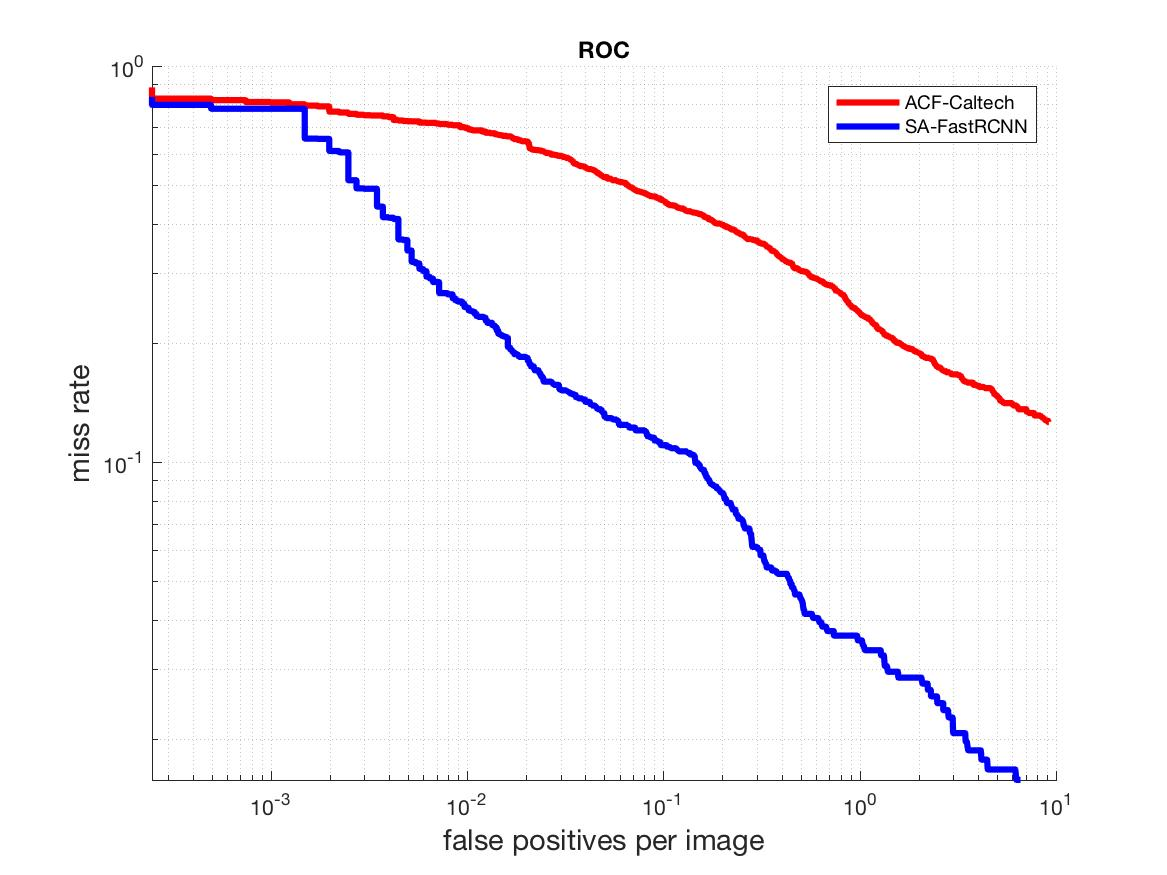
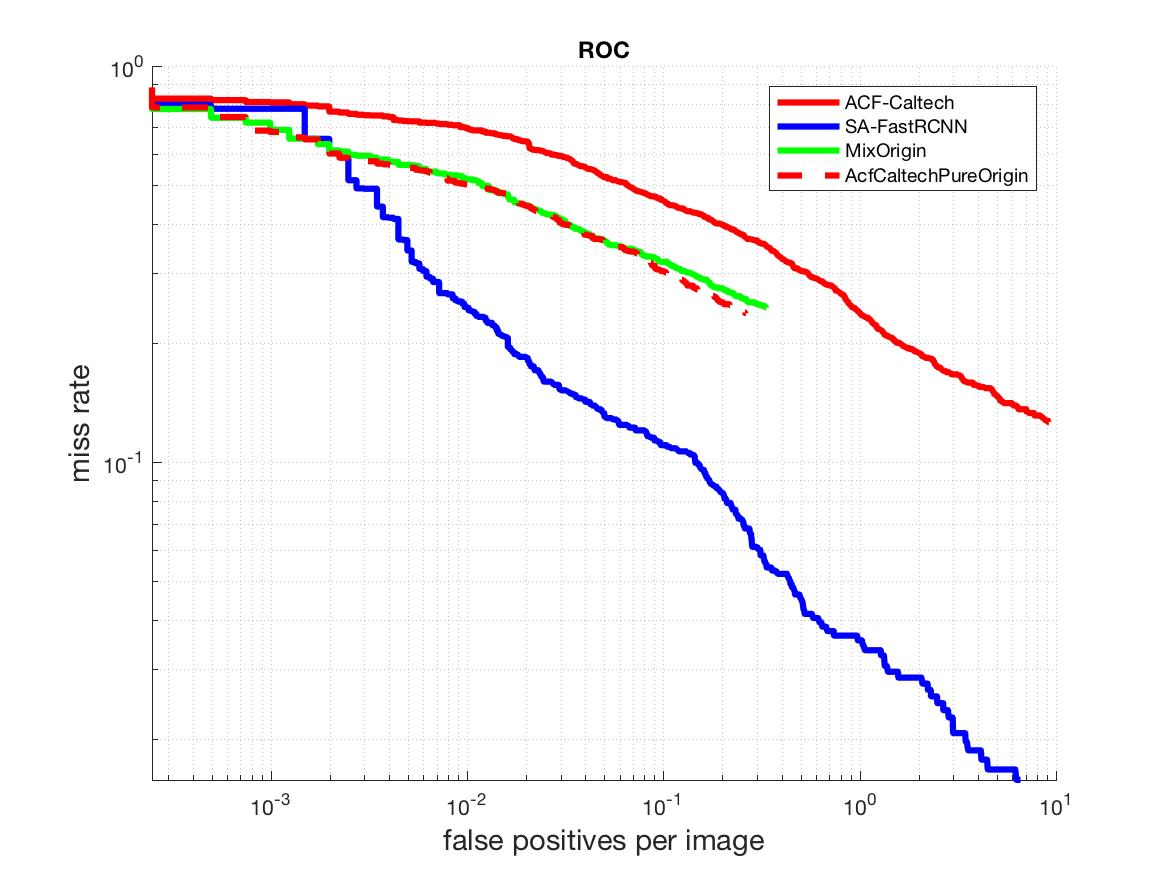
upate

diff --git a/testOnCaltech.m b/testOnCaltech.m
@@ -3,16 +3,17 @@ addpath(p);
 p = genpath('../../DATA/code3.2.1');
 addpath(p);
 clear all;
-
+common = 'AcfCaltechPureOrigin';
[1 lines of base64/hex data omitted]
-saveName = '/Users/shiyuhuang/Downloads/ATOCAR/DATA/Caltech/UsaTest/dt-MixOrigin.mat';
-evasaveName = '/Users/shiyuhuang/Downloads/ATOCAR/DATA/Caltech/UsaTest/ev-MixOrigin.mat';
-stra='MixOrigin'; 
+saveName = ['/Users/shiyuhuang/Downloads/ATOCAR/DATA/Caltech/UsaTest/dt-' common '.mat'];
+evasaveName = ['/Users/shiyuhuang/Downloads/ATOCAR/DATA/Caltech/UsaTest/ev-' common '.mat'];
+stra=common; 
 stre='';
 images = dir(fullfile(imgDir,'*.jpg'));
 len = size(images,1);
 
-load models/MixOriginDetector.mat;
+A = load(['models/' common 'Detector.mat']);
+detector = A.detector;
 dt = cell(1,len);
 aspectRatio = .41;
 for i = 1:len

diff --git a/evaCaltech.m b/evaCaltech.m
@@ -4,11 +4,15 @@ p = genpath('../../DATA/code3.2.1');
 addpath(p);
 clear all;
 
-resDir = '/Users/shiyuhuang/Desktop/results/UsaTest';
+resDir = '/Users/shiyuhuang/Downloads/ATOCAR/DATA/Caltech/UsaTest/';
 resfiles = {'ev-Reasonable-ACF-Caltech.mat',...
-            'ev-Reasonable-SA-FastRCNN.mat'};
-types = {'r-','b-'};
+            'ev-Reasonable-SA-FastRCNN.mat',...
+            'ev-MixOrigin.mat',...
+            'ev-AcfCaltechPureOrigin.mat'};
+types = {'r-','b-','g-','r--'};
+
 n = length(resfiles);
+assert(n == length(types));
 res=cell(1,n);
 names = cell(1,n);
 gts = cell(1,n);

diff --git a/draw.m b/draw.m
@@ -3,7 +3,7 @@ close all
 p = genpath('../toolbox');
 addpath(p);
 
-fid1=fopen('draw.cfg');
+fid1=fopen('configure/draw.cfg');
 groundtruth = '';
 testFiles={};
 testNames={};
@@ -33,7 +33,7 @@ for i = 1:size(testFiles,2)
     [xs,ys] = bbGt('compRoc',gt,dt,1);
     ys = 1 - ys;
     hold on;
-    p{i} = plot(xs,ys,type{i},'LineWidth',3);
+    plot(xs,ys,type{i},'LineWidth',3);
     set(gca,'XScale','log','YScale','log',...
         'XMinorGrid','on','XMinorTic','on',...
         'YMinorGrid','on','YMinorTic','on');
